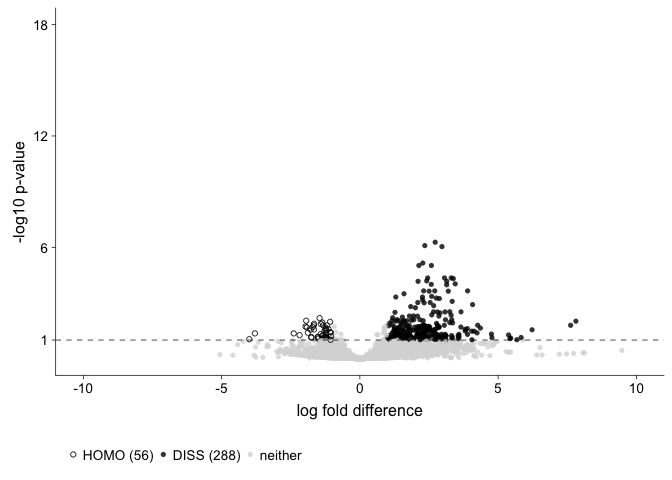
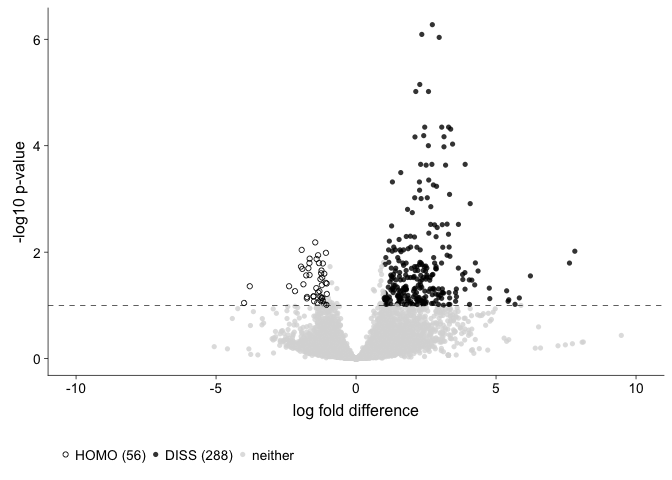
fix volcano plot

diff --git a/scripts/02_volcanoplots.md b/scripts/02_volcanoplots.md
@@ -5,19 +5,6 @@ Here I load the relevant dataframes and set the color palette.
     # dissocation DEGes
     dissociation <- read.csv("../results/volcanoTreatment.csv", header = T, row.names = 1)
 
-    # relevel factors for treatement since changeing the name in the legend
-    # wont work since i'm plotting color and shape :(
-
-    dissociation$direction <-revalue(dissociation$direction, c("HOMO"="HOMO (56)", 
-                                      "DISS"="DISS (288)"))
-
-    # set factor levels
-    dissociation$direction <- factor(dissociation$direction,
-                                 levels = c("HOMO (56)", "DISS (288)", "neither"))
-
-    #set colors
-    dissociationcolor <-  c("HOMO (56)" = "black", "DISS (288)" = "black", "neither" = "#d9d9d9")
-
     # subfield specific degs
     subfield <- read.csv("../results/volcanoCA1DG.csv", header = T, row.names = 1)
     head(subfield)
@@ -32,36 +19,18 @@ Here I load the relevant dataframes and set the color palette.
 
 Treatement volcanos
 
-    # for comparison to region specific volcano plot
-    volcanoplot <- ggplot(dissociation, aes(x = lfc, y = pvalue)) + 
-      geom_point(aes(color = factor(direction), shape = factor(direction)), 
-                 size = 1.5, alpha = 0.8, na.rm = T) + 
-      theme_cowplot(font_size = 12, line_size = 0.25) +
-      theme(legend.title = element_blank(),
-            legend.position = "bottom",
-            panel.grid.minor=element_blank(),
-            panel.grid.major=element_blank()) +
-      scale_color_manual(values = dissociationcolor) +
-      scale_x_continuous(name="log fold difference",
-                          limits = c(-10, 10)) +
-      scale_y_continuous(name="-log10 p-value",
-                         limits = c(0, 18),
-                         breaks = c(1,6,12,18)) +
-      geom_hline(yintercept = 1,  size = 0.25, linetype = 2 ) + 
-      scale_shape_manual(values = c(1,16,16))  +
-      labs(color  = "Guide name", shape = "Guide name")
-        #annotate("text", label = "56", x = -10, y = 18, size = 3, color = "black") + 
-        #annotate("text", label = "288", x = 10, y = 18, size = 3, color = "black")
-    volcanoplot  
+    levels(dissociation$direction)
 
-![](../figures/02_volcanoplots/plot-1.png)
+    ## [1] "DISS"    "HOMO"    "neither"
 
-    pdf(file = "../figures/02_volcanoplots/Treatment_volcano.pdf", width=2.5, height=2.25)
-    plot(volcanoplot)
-    dev.off()
-
-    ## quartz_off_screen 
-    ##                 2
+    # renaming factors to include # of DEGs
+    dissociation$direction <-revalue(dissociation$direction, c("HOMO"="HOMO (56)", 
+                                      "DISS"="DISS (288)"))
+    # set factor levels
+    dissociation$direction <- factor(dissociation$direction,
+                                 levels = c("HOMO (56)", "DISS (288)", "neither"))
+    #set colors
+    dissociationcolor <-  c("HOMO (56)" = "black", "DISS (288)" = "black", "neither" = "#d9d9d9")
 
     # for comparison to heat map of 30 degs
     volcanoplot <- ggplot(dissociation, aes(x = lfc, y = pvalue)) + 
@@ -79,11 +48,9 @@ Treatement volcanos
       geom_hline(yintercept = 1,  size = 0.25, linetype = 2 ) + 
       scale_shape_manual(values = c(1,16,16))  +
       labs(color  = "Guide name", shape = "Guide name")
-        #annotate("text", label = "56", x = -10, y = 18, size = 3, color = "black") + 
-        #annotate("text", label = "288", x = 10, y = 18, size = 3, color = "black")
     volcanoplot  
 
-![](../figures/02_volcanoplots/plot-2.png)
+![](../figures/02_volcanoplots/plot-1.png)
 
     pdf(file = "../figures/02_volcanoplots/Treatment_volcano_scalesfree.pdf", width=3.25, height=3.25)
     plot(volcanoplot)
@@ -131,29 +98,6 @@ Plotting CA1 vs. DG volcano plots. The color here is set inside.
 
     ## quartz_off_screen 
     ##                 2
-
-    figure2 <- plot_grid(volcanoplot, volcanoplot2,  
-                         nrow = 1, labels = c('A', 'B'), 
-                         #align = 'h',
-                         rel_widths = c(1,1))
-
-    figure2
-
-![](../figures/02_volcanoplots/figure2old-1.png)
-
-    pdf("../figures/figure2.pdf", width=7, height=4)
-    print(figure2)
-    dev.off()
-
-    ## quartz_off_screen 
-    ##                 2
-
-    ggsave(
-      "../figures/figure2.png",
-      figure2,
-      width=7, height=4,
-      dpi = 1200
-    )
 
 Useful R tutorials
 ------------------
